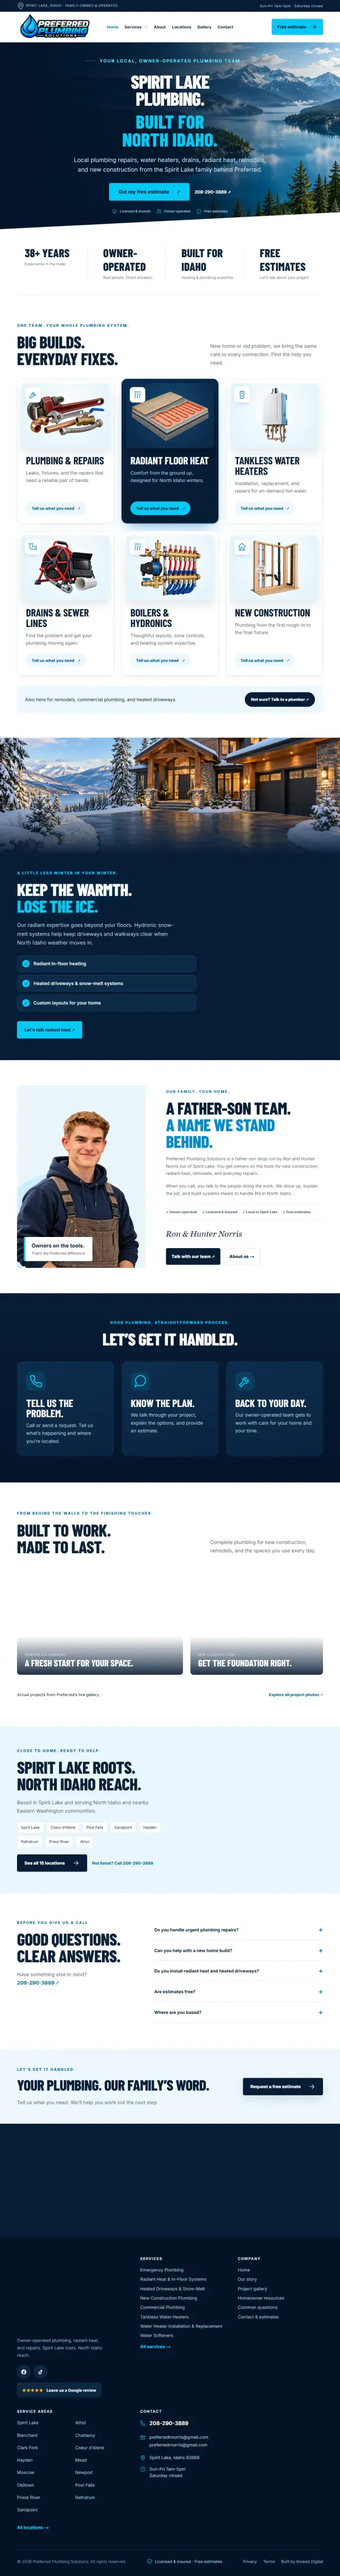
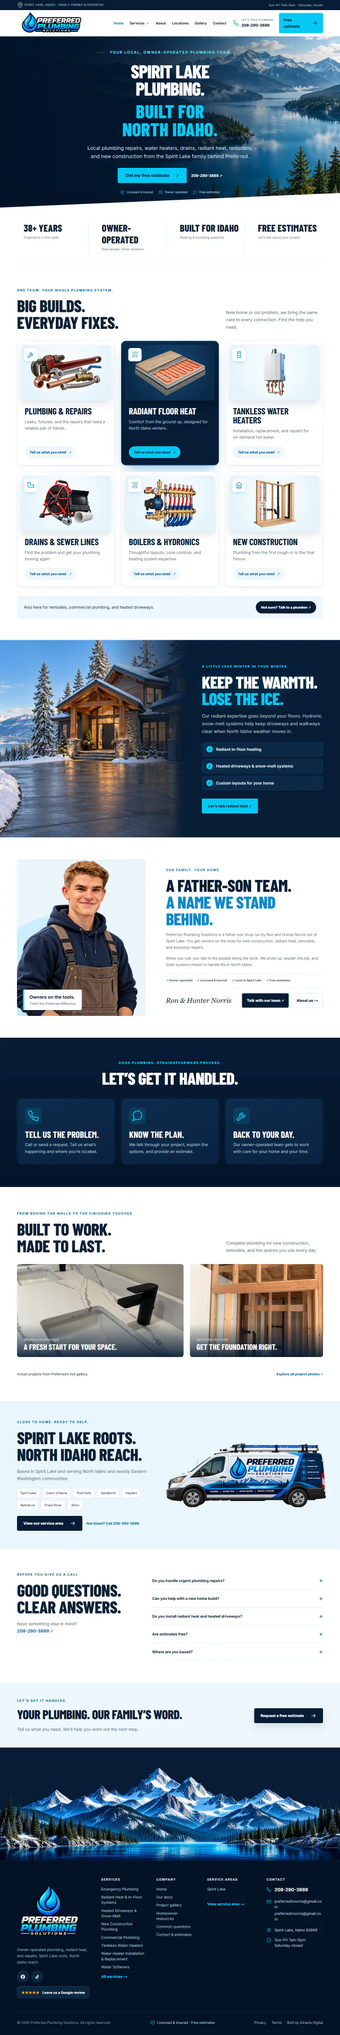
Fix missing images in client site captures

diff --git a/src/data/portfolio.ts b/src/data/portfolio.ts
@@ -56,7 +56,7 @@ export const PROJECTS: Project[] = [
 export const PROJECT_GROUPS = ["Home Services", "Outdoor Living", "Design & Build", "Cleaning"];
 
 /** Screenshot files keep their paths. This query changes when those files are replaced, because they are cached for a year. */
-export const PORTFOLIO_ASSET_VERSION = "20";
+export const PORTFOLIO_ASSET_VERSION = "21";
 
 export function portfolioFile(image: string, width: 640 | 1100 = 1100) {
   const file = width === 640 ? image.replace(/\.webp$/, "-640.webp") : image;

diff --git a/src/data/liveSites.ts b/src/data/liveSites.ts
@@ -17,7 +17,7 @@ export const LIVE_SITES: LiveSite[] = [
     url: "https://bynmwcreative.com/",
     image: "/portfolio/live-manos-creativas.webp",
     width: 1100,
-    height: 7265,
+    height: 6557,
   },
   {
     slug: "preferred-plumbing",
@@ -26,7 +26,7 @@ export const LIVE_SITES: LiveSite[] = [
     url: "https://www.callpreferredplumbing.com/",
     image: "/portfolio/live-preferred-plumbing.webp",
     width: 1100,
-    height: 8332,
+    height: 6583,
   },
   {
     slug: "a1-landscaping",
